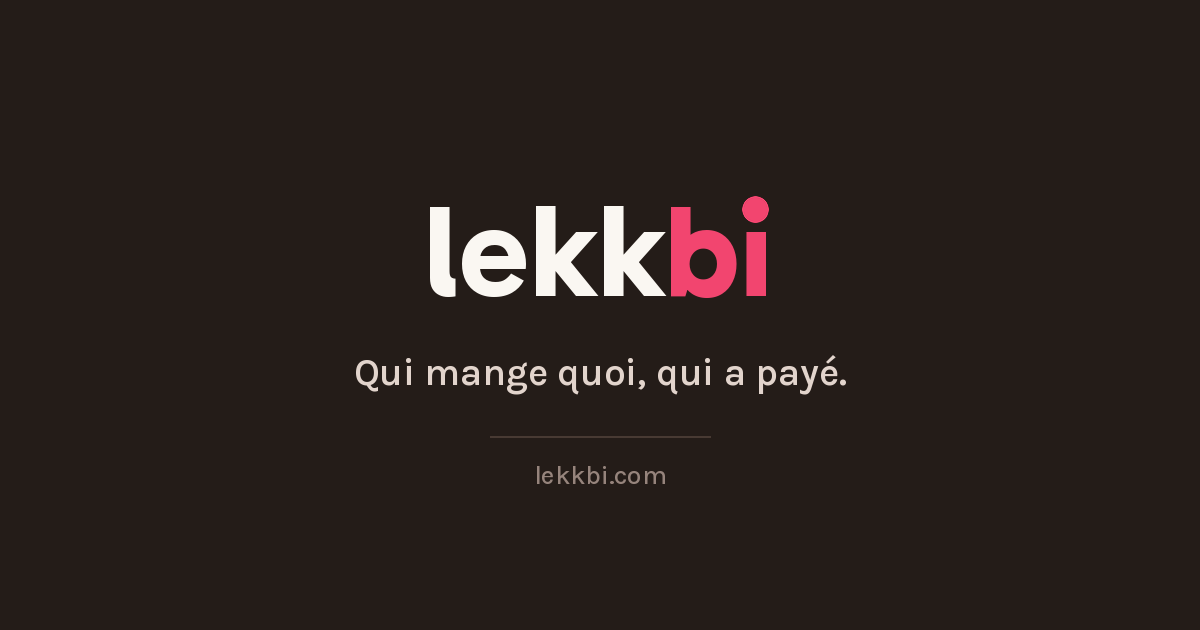
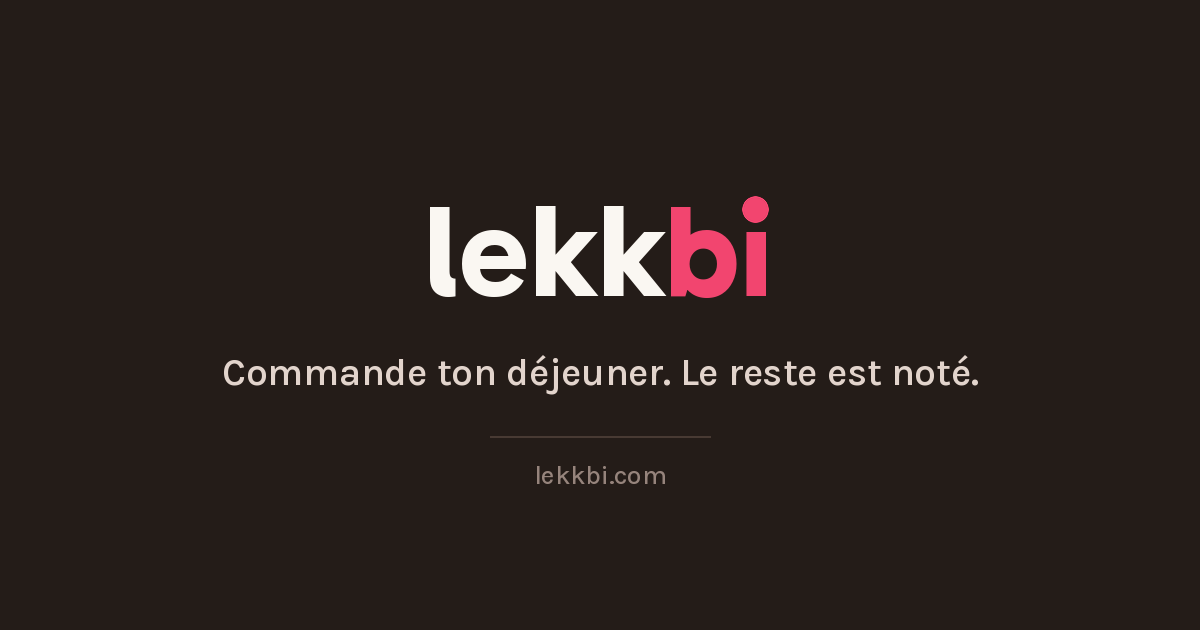
L'image de partage s'adresse à celui qui commande
« Qui mange quoi, qui a payé » décrivait ce que le traiteur surveille, mais
cette image est vue dans le groupe WhatsApp, par quelqu'un qui veut commander.
Lue là, elle sonnait comme de la surveillance.

« Commande ton déjeuner. Le reste est noté. » parle à l'employé, et reprend
le mot de l'application quand un règlement est enregistré — donc elle dit au
passage que Lekk bi note, il n'encaisse pas.

Claude-Session: https://claude.ai/code/session_01JP32kg6hAmuTe7MbCwvDXF

Changed region(s): [[0.185, 0.573, 0.8017, 0.6333]]

diff --git a/CHARTE.md b/CHARTE.md
@@ -107,11 +107,21 @@ point dit l'état. Une légende dirait au lecteur que ce qu'il voit ne suffit pa
 Là où quelqu'un découvre le produit sans contexte — image de partage, vitrine —
 c'est une **ligne d'explication**, pas une baseline :
 
-> **Qui mange quoi, qui a payé.**
+> **Commande ton déjeuner. Le reste est noté.**
 
-Elle n'a pas à tenir sous le mot, donc elle peut dire le produit en entier. Et
-elle corrige le malentendu le plus coûteux — « l'application prend l'argent » —
-sans avoir à s'en expliquer : l'outil **note** qui a payé.
+Elle n'a pas à tenir sous le mot, donc elle peut dire le produit en entier.
+
+Elle s'adresse à **l'employé**, pas au traiteur : l'image de partage est vue
+dans le groupe WhatsApp, par quelqu'un qui veut commander, pas par quelqu'un
+qui surveille. Une ligne écrite du point de vue du traiteur — « qui mange quoi,
+qui a payé » — se lit là comme de la surveillance. Et « le reste est noté »
+reprend le mot de l'application quand un règlement est enregistré, donc elle
+désamorce le malentendu le plus coûteux — « l'application prend l'argent » —
+sans avoir à s'en expliquer.
+
+Une phrase, pas trois : le titre et la description du lien s'affichent déjà
+sous l'image. Ce qui est gravé dans l'image est aussi la seule chose qu'on ne
+peut pas changer sans refabriquer un fichier et attendre le cache.
 
 Si une enseigne ou un pied de facture réclame un jour une baseline, c'est
 **« LE MIDI, RÉGLÉ »** — *réglé* est déjà le mot de l'application quand la jauge
